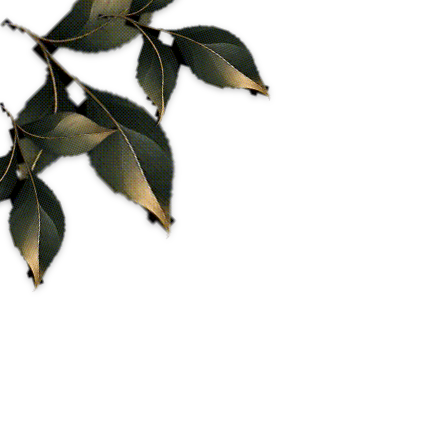
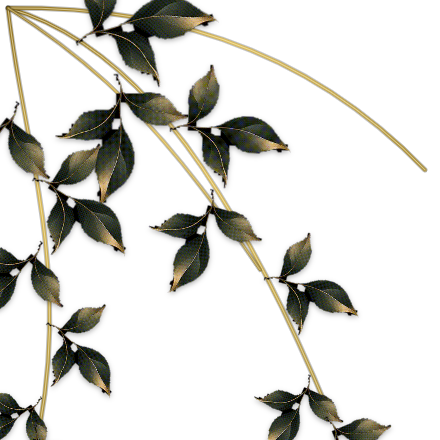
Corner decoration: long leafy branches with the olive and gold sprigs

diff --git a/src/components/Flora.jsx b/src/components/Flora.jsx
@@ -2,7 +2,7 @@
 // baked from the vector source in FloraArt.jsx so the browser only moves flat pictures (cheap) instead of painting hundreds of shapes.
 const MIRROR = { tl: 'none', tr: 'scaleX(-1)', br: 'scale(-1,-1)', bl: 'scaleY(-1)' };
 const ORIGIN = { tl: '0 0', tr: '100% 0', br: '100% 100%', bl: '0 100%' };
-const V = '6'; // bump when the baked art changes (the server caches images for a year)
+const V = '7'; // bump when the baked art changes (the server caches images for a year)
 const LAYERS = [[`/decor/flora-1.png?v=${V}`, 0], [`/decor/flora-2.png?v=${V}`, 0.5], [`/decor/flora-3.png?v=${V}`, 1]];
 
 /** A bouquet for a frame or section corner. Layers bloom in turn (CSS) once `on`, then the bouquet sways. */
